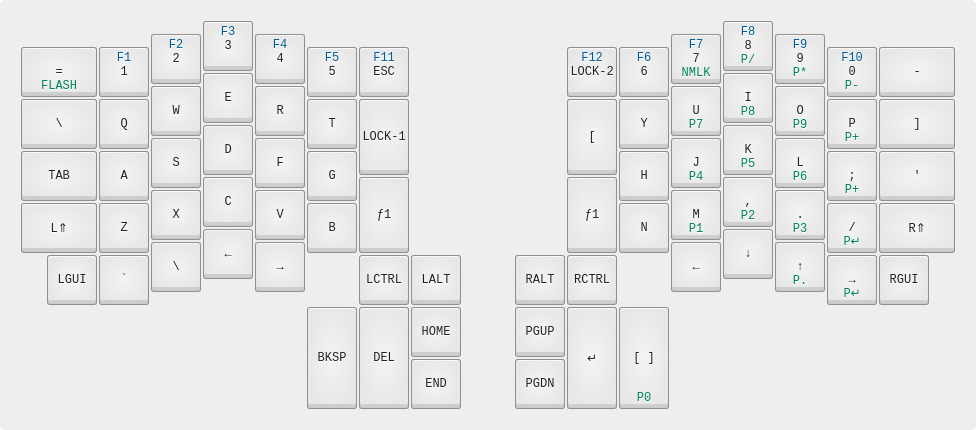
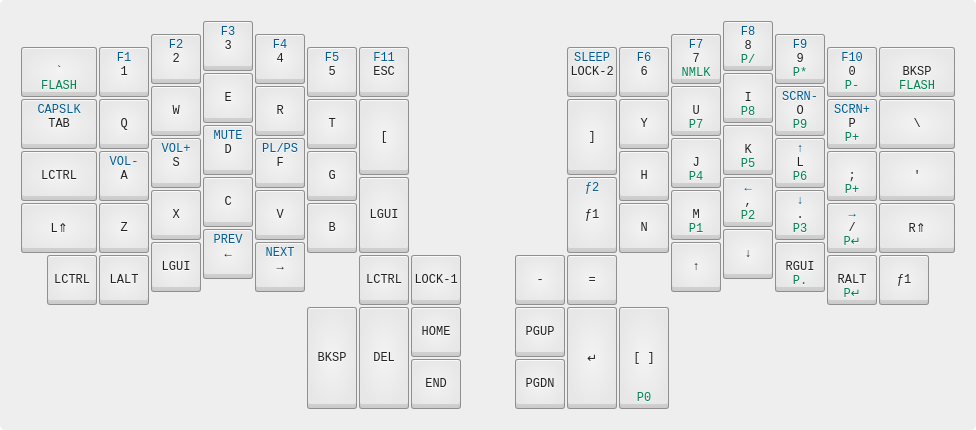
screenshots custom layout

diff --git a/ergodox-keymap-screenshot/index.js b/ergodox-keymap-screenshot/index.js
@@ -1,18 +1,57 @@
 const puppeteer = require("puppeteer");
+const fs = require("fs-extra");
+
+async function importLayout(page, layoutJson) {
+    console.log("Clicking import button")
+  await page.waitFor("button#import-map");
+  const importButton = await page.$("button#import-map");
+  await importButton.click();
+
+  console.log("Waiting for popup");
+  await page.waitFor(".popup textarea", { visisble: true });
+  let popup = await page.$(".popup");
+
+  console.log("Injecting layout");
+  const layoutTextArea = await page.$(".popup textarea");
+  await page.evaluate((textarea, layoutJson) => {
+    textarea.value = JSON.stringify(layoutJson, null, 2);
+    return Promise.resolve(textarea.value)
+  }, layoutTextArea, layoutJson);
+
+  console.log("Waiting")
+  await page.waitFor(500);
+
+  console.log("Clicking submit")
+  const submit = await page.$(".popup button.button-read");
+  await submit.click();
+
+  console.log("Waiting for popup to disappear")
+  return await page.waitFor(500);
+}
+
+async function screenshotKeyboardLayout(page) {
+    console.log("Waiting for layout preview to appear");
+  await Promise.all([page.waitFor("#stage"), page.waitFor("#stage .key")]);
+  const container = await page.$("#container");
+    console.log("Say cheese");
+  return await container.screenshot({ path: "screenshot.png" });
+}
 
 (async () => {
+  const layoutJson = await fs.readJson("../MDErgo1-Default.json");
   const browser = await puppeteer.launch({
+    // headless: false,
     args: ["--disable-setuid-sandbox", "--no-sandbox"]
   });
   const page = await browser.newPage();
   await page.goto("https://configurator.inputclub.com/?layout=MDErgo1-Default");
 
-  console.log(await page.content());
+//   console.log(await page.content());
 
-  await page.waitFor("#stage");
-  await page.waitFor("#key-76");
-  const $container = await page.$("#container");
-  await $container.screenshot({ path: "screenshot.png" });
+  await page.waitFor(".container");
+  await importLayout(page, layoutJson);
+  await screenshotKeyboardLayout(page);
 
+  console.log("Done");
   await browser.close();
 })();
